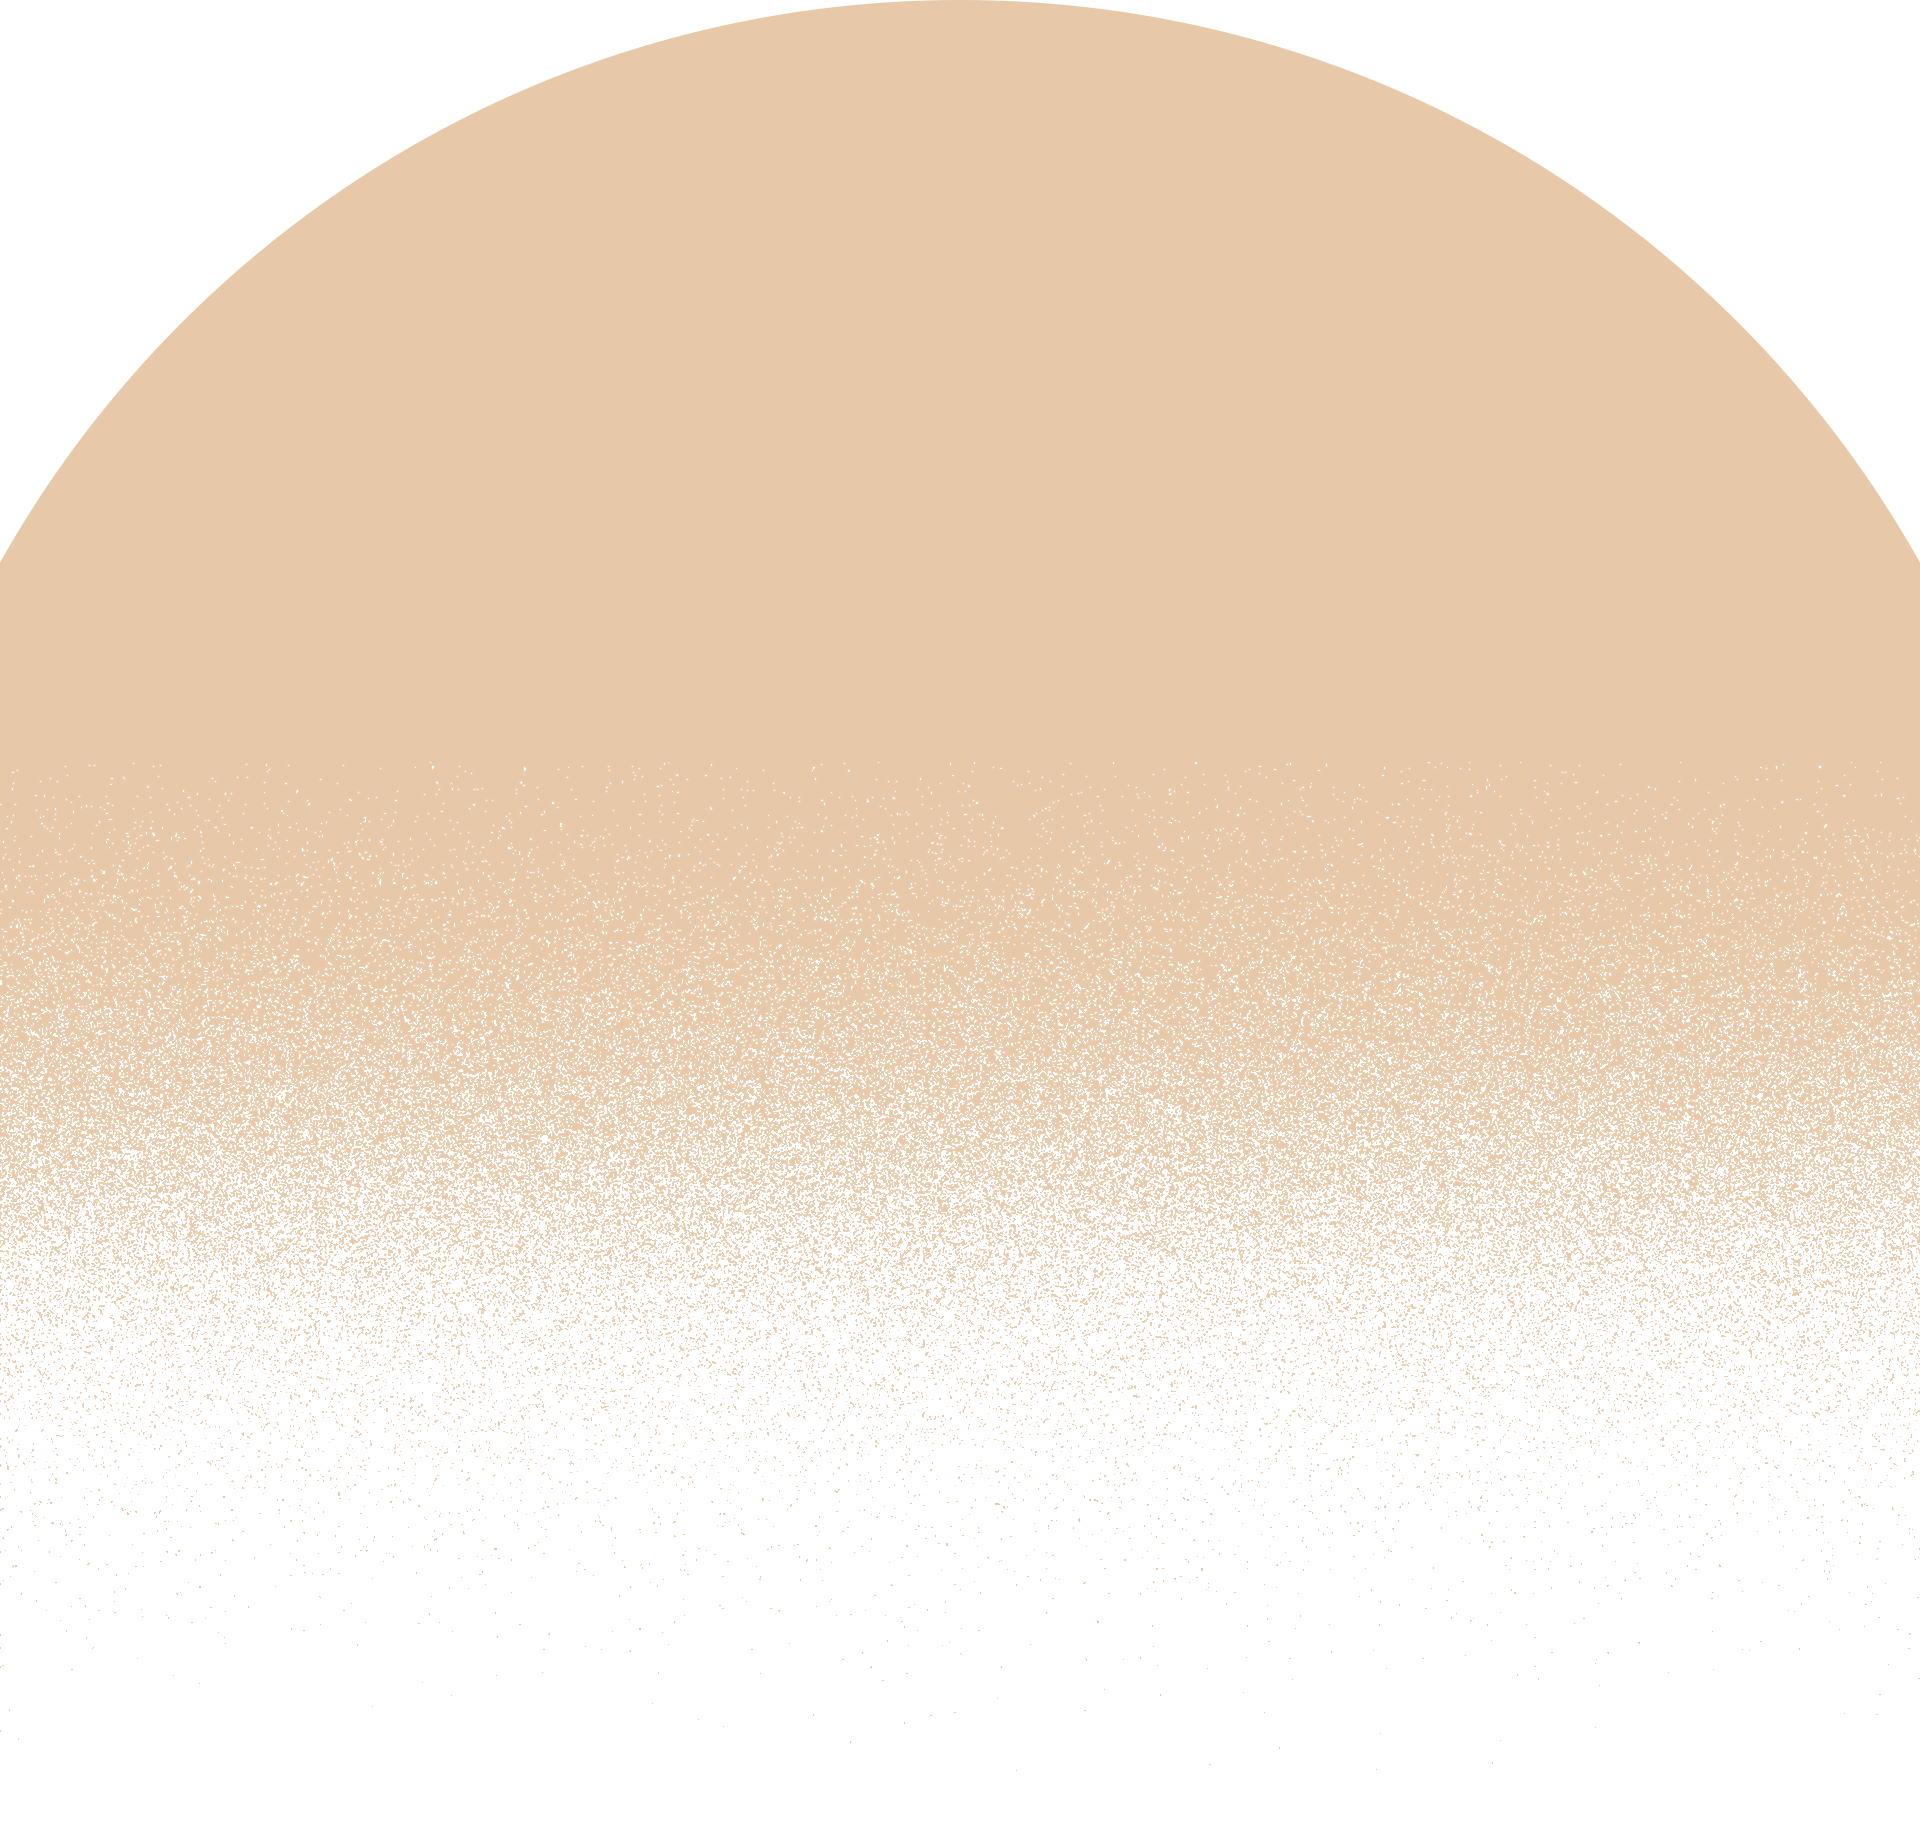
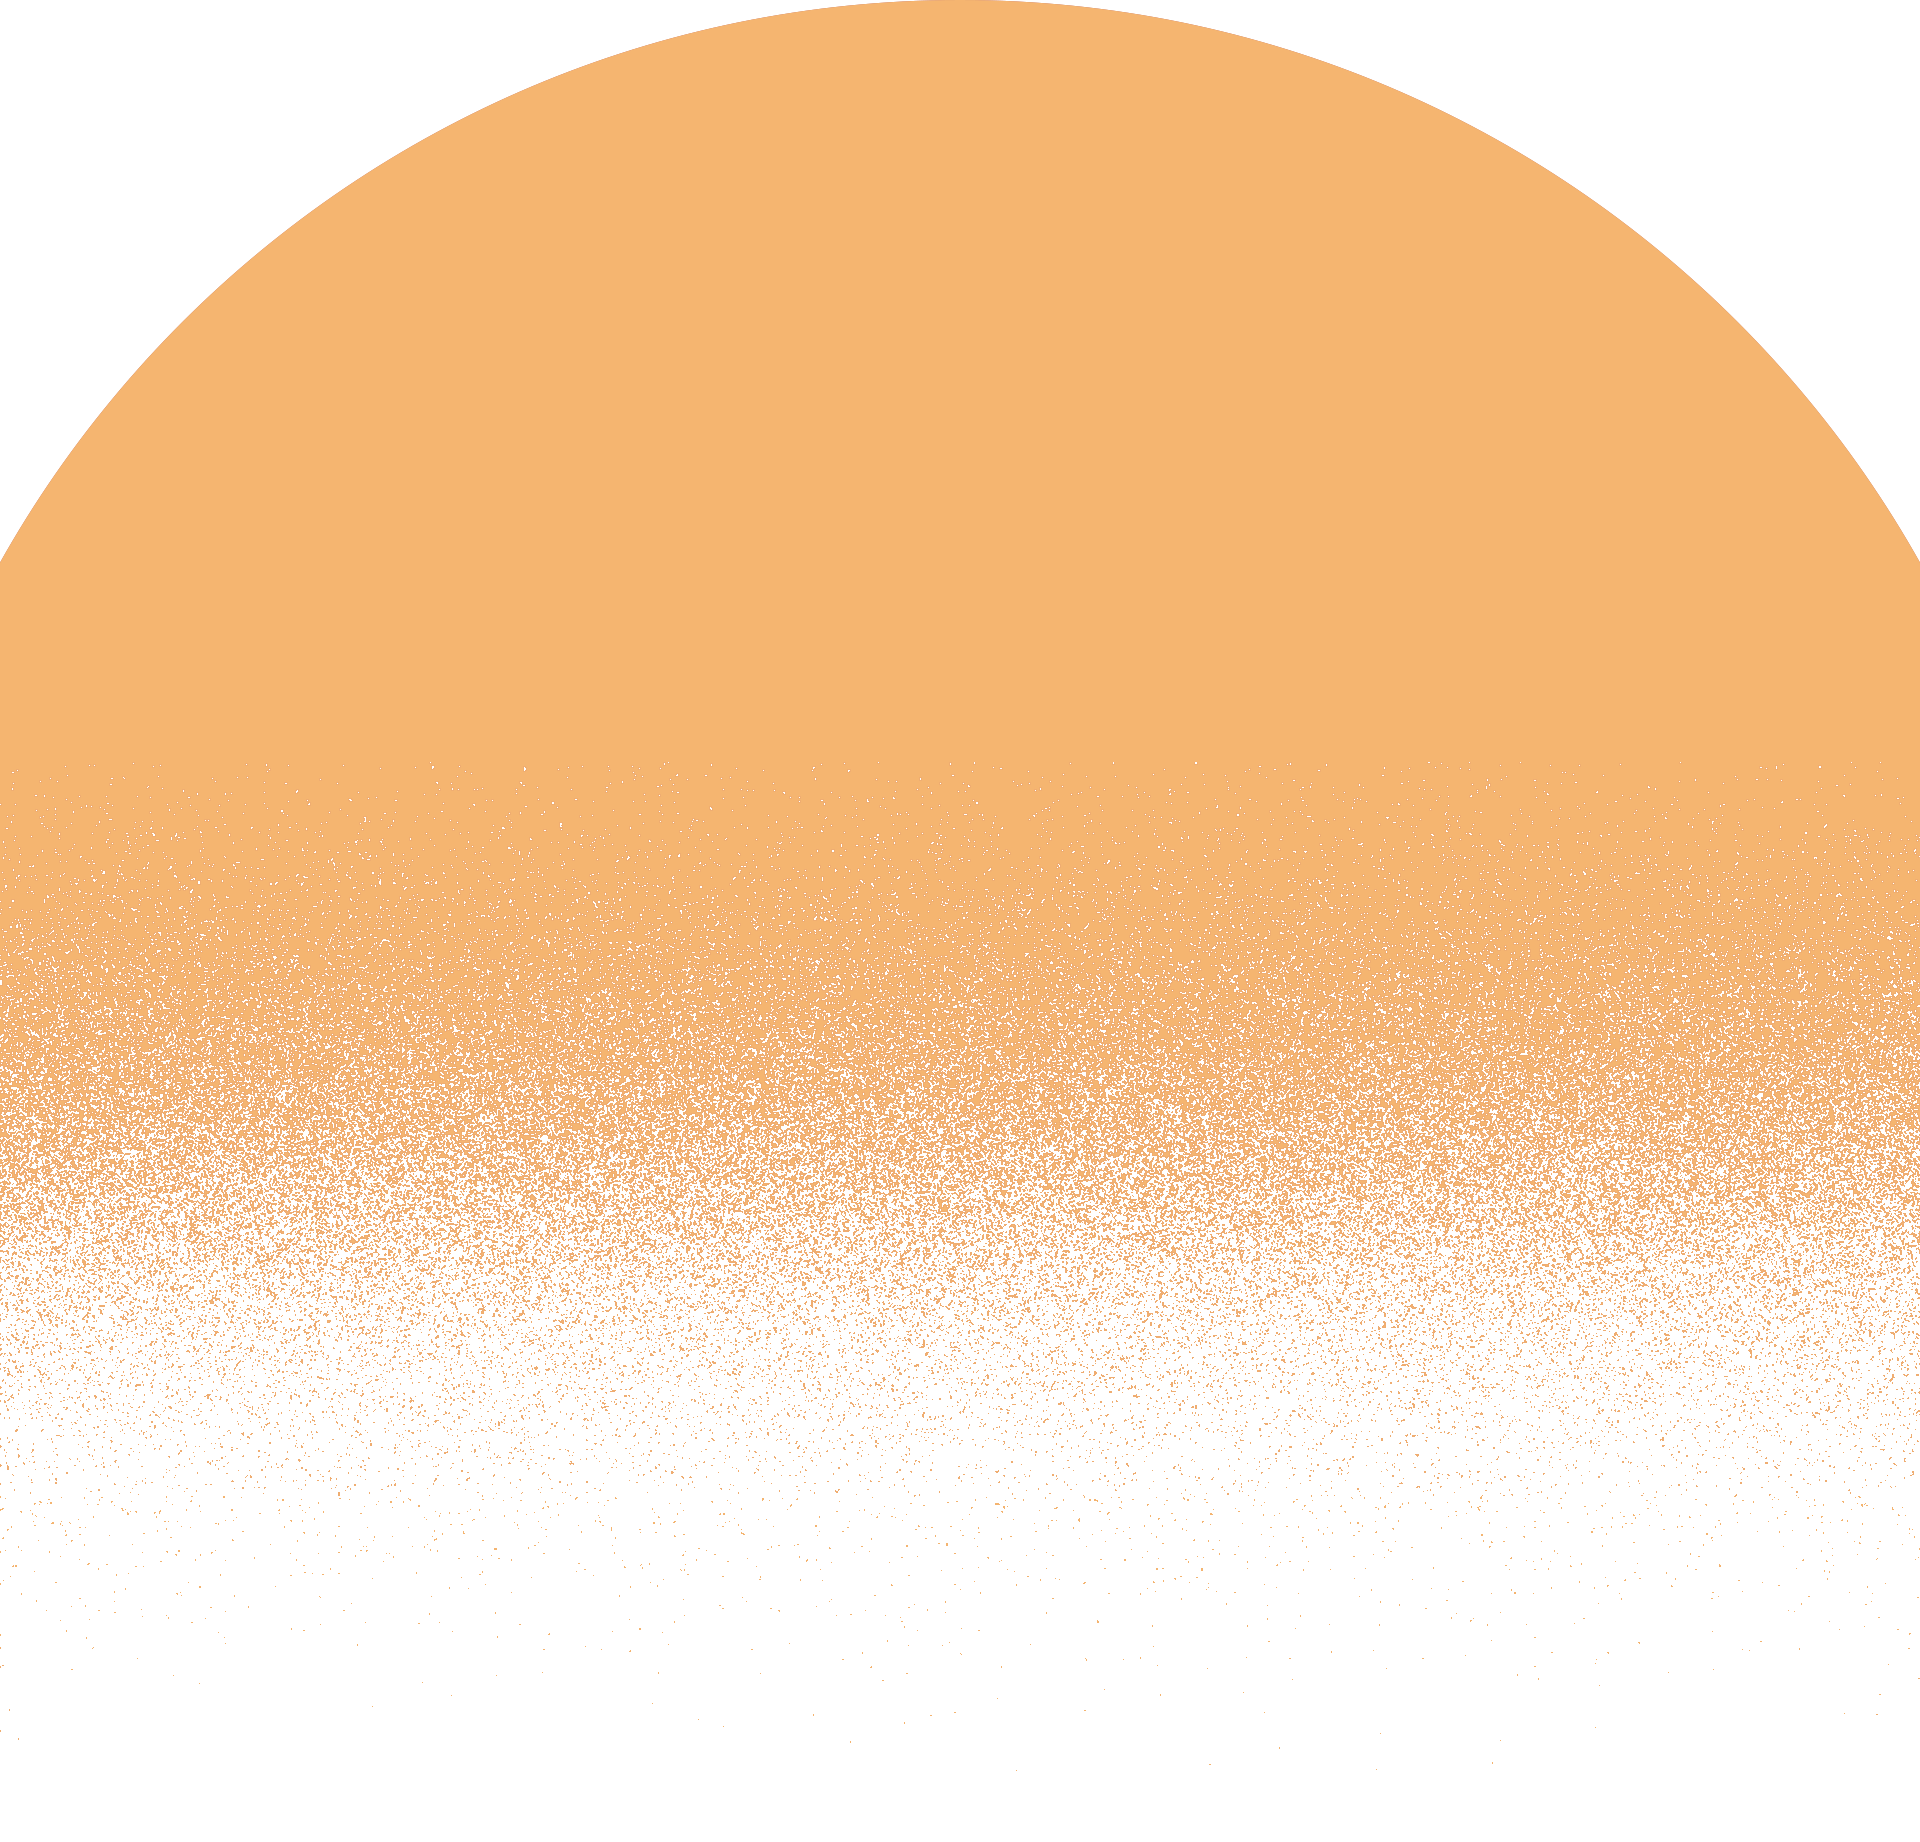
0910 改黃圈顏色

diff --git a/index_.html b/index_.html
@@ -5,7 +5,7 @@
     <meta charset="UTF-8">
     <meta http-equiv="X-UA-Compatible" content="IE=edge">
     <meta name="viewport" content="width=device-width, initial-scale=1.0">
-    <title>Document</title>
+    <title>我是首頁唷</title>
     <link rel="stylesheet" href="https://cdn.jsdelivr.net/npm/bootstrap@4.6.2/dist/css/bootstrap.min.css"
         integrity="sha384-xOolHFLEh07PJGoPkLv1IbcEPTNtaed2xpHsD9ESMhqIYd0nLMwNLD69Npy4HI+N" crossorigin="anonymous">
     <link rel="stylesheet" href="./style.css">
@@ -83,9 +83,8 @@
 
     <div class="section2_ba bg2_ba">
         <div class="meowTemple">
-
+            <!-- <img src="./imgs/index/meow-temple.png" alt=""> -->
         </div>
-        <!-- <img src="./imgs/index/meow-temple.png" alt=""> -->
     </div>
     <script src="index.js"></script>
 

diff --git a/index.css b/index.css
@@ -201,10 +201,12 @@
     height: 300vh;
     background: url(./imgs/index/bg3.png) center top / 100% no-repeat;
     /* background-blend-mode: multiply; */
-    mix-blend-mode: hard-light;
+    /* mix-blend-mode: hard-light; */
     /* background-blend-mode: hard-light; */
 }
 
 .meowTemple {
-    background: url(./imgs/index/meow-temple.png);
+    width: 100%;
+    height: 100vh;
+    background: url(./imgs/index/meow-temple.png) center top / cover;
 }
